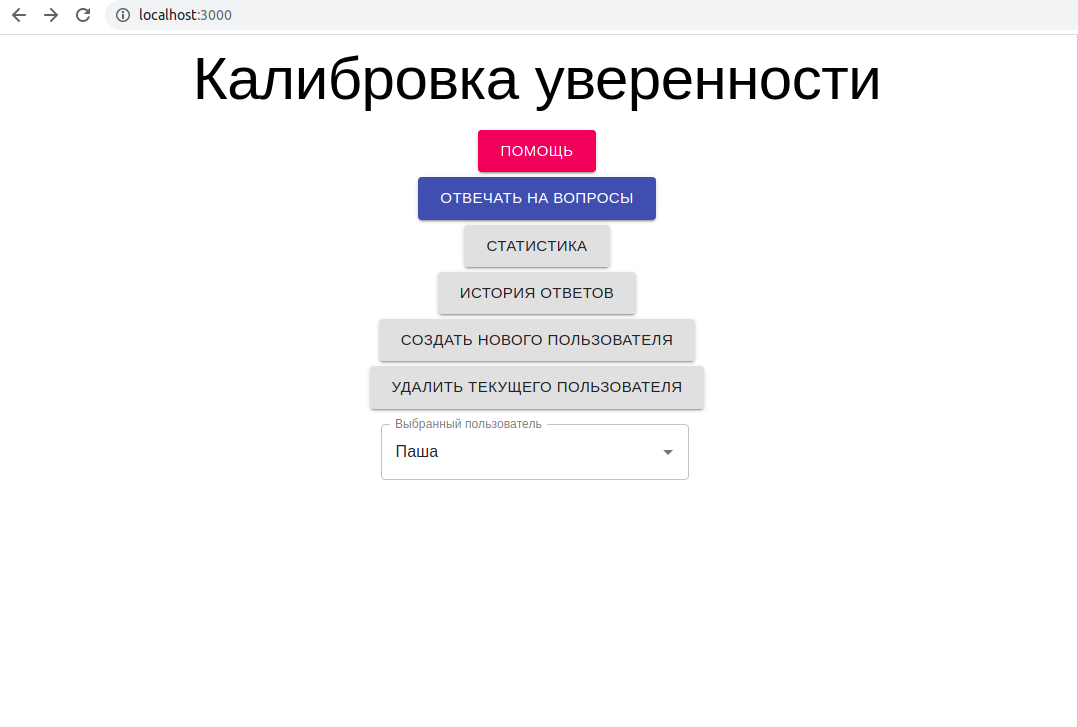
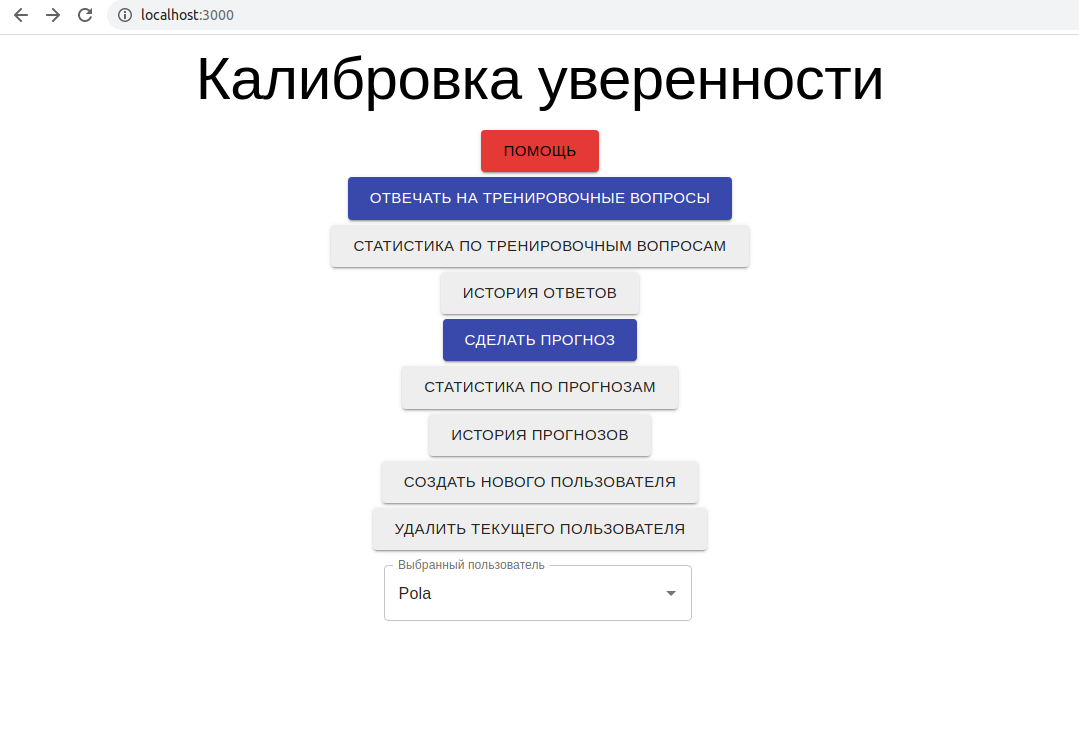
Updated README

Changed region(s): [[0.1837, 0.0605, 0.8265, 0.8171], [0.0, 0.0, 0.2143, 0.0303], [0.9796, 0.0303, 1.0, 0.0605]]

diff --git a/README.md b/README.md
@@ -5,8 +5,9 @@ This app allows you to improve your precision in making probablistic estimates w
 # Features
 
 - Bank of 100 random science questions
-- Statistics over answered training questions
-- Also you can review which questions you answered correctly and where you've been mistaken
+- Allows to make predictions and store their resolve date and probability
+- Statistics over answered training questions and predictions
+- Also you can review which questions/predictions you answered correctly and where you've been mistaken
 - Supports multiple users
 - Client-server architecture with REST API and Web-interface - you can access running app from any browser on any device in your local net
 - Integration tests for backend with pytest
@@ -18,6 +19,8 @@ This app allows you to improve your precision in making probablistic estimates w
 ![pic2](pictures_for_readme/pic2.png)
 ![pic3](pictures_for_readme/pic3.png)
 ![pic4](pictures_for_readme/pic4.png)
+![pic5](pictures_for_readme/pic5.png)
+![pic6](pictures_for_readme/pic6.png)
 
 # Requirements
 
@@ -26,7 +29,9 @@ Frontend:
 - react 17.0.2
 - react-router-dom 6.0.2
 - react-scripts 4.0.3
-- material-ui 4.12
+- mui/material 5.2.5
+- mui/lab 5.0.0
+- material-ui/icons 4.11.2
 - axios 0.24.0
 - recharts 2.1.8
 
@@ -54,10 +59,9 @@ python calibration_backend.py
 
 # TODOs
 
-- Page for long-term personal predictions
 - Page for adding questions online
 - Loading questions from more files
 - Selecting topic for exercise questions
-- Good error alerts when answering questions from multiple browsers or when Promises are rejected
+- Good error alerts when answering questions from multiple browsers or when Promises are rejected instead of just changing title for page
 - Fix blinking "Loading..." - preload some data
 - English translation (maybe)
